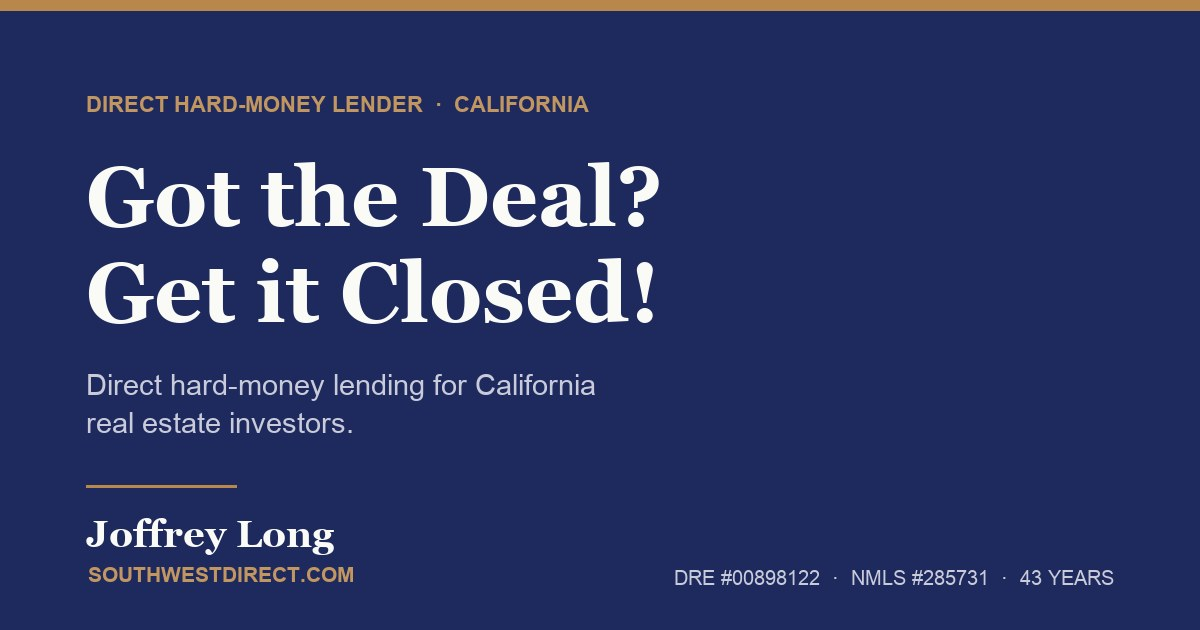
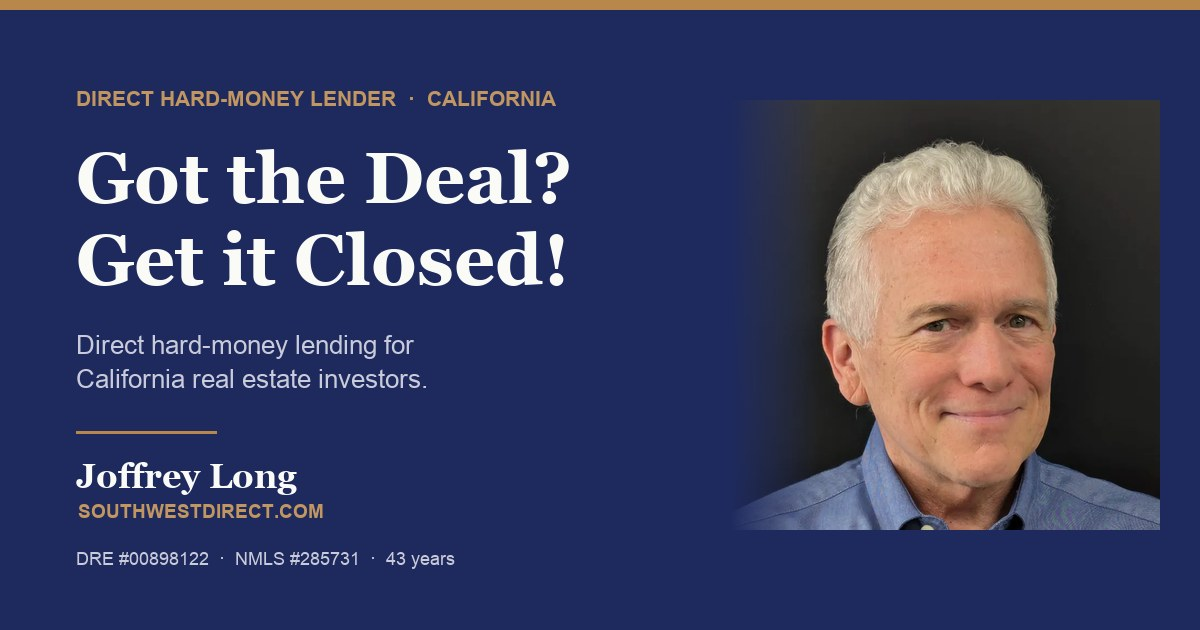
Launch prep: noindex off, sitemap, robots, llms.txt, social image; wrap and z-index fixes
Launch
* Removed noindex from the three content pages, which now carry
  "index, follow, max-image-preview:large". 404.html keeps noindex deliberately.
* sitemap.xml: added lastmod, legal pages to monthly / priority 0.5.
* robots.txt: explicit allows for GPTBot, ChatGPT-User, ClaudeBot, anthropic-ai,
  PerplexityBot, Google-Extended and CCBot.
* llms.txt: new. Business summary, contact, licensing, services, exclusions and
  the three page links.
* og-image.jpg regenerated to include the portrait, via tools/build-social.py.
* Canonicals, Open Graph, Twitter tags, apple-touch-icon, 192/512 icons,
  site.webmanifest and unique meta descriptions were already in place.
* Index canonical still points at the bare root rather than /index.html:
  pointing the home page at /index.html would split it across two URLs and
  canonicalise to the weaker one.

Footer credit wrap
* Bound with non-breaking spaces and nowrap on its own span. Measured at 320,
  360, 390, 414, 421, 768 and 1440: exactly one line box at every width. Below
  421px the copyright and credit stack and the middot between them is hidden so
  it is not left dangling.

Map z-index on iOS
* Steps 1 and 2 of the checklist were already satisfied: the button is a direct
  child of body and no ancestor has transform, filter or will-change. So the
  suspect is compositing, not stacking order.
* Leaflet promotes .leaflet-map-pane with translate3d. On WebKit a composited
[…]

diff --git a/assets/css/site.css b/assets/css/site.css
@@ -347,7 +347,7 @@ a:focus-visible, button:focus-visible, [tabindex]:focus-visible, iframe:focus-vi
   /* v2 design places it at 20px; env() keeps it clear of the iOS home bar. */
   right: calc(20px + env(safe-area-inset-right, 0px));
   bottom: calc(20px + env(safe-area-inset-bottom, 0px));
-  z-index: 1000;   /* clears Leaflet even if the container context is ever lost */
+  z-index: 9999;   /* clears Leaflet even if the container context is ever lost */
   width: 48px; height: 48px;
   display: grid; place-items: center;
   padding: 0;
@@ -361,10 +361,15 @@ a:focus-visible, button:focus-visible, [tabindex]:focus-visible, iframe:focus-vi
   box-shadow: 0 2px 10px rgba(30, 42, 94, 0.3);
   opacity: 0;
   visibility: hidden;            /* also keeps it out of the tab order when hidden */
-  transform: translateY(8px);
+  /* translate3d rather than translateY, and will-change, so the button gets its
+     own compositing layer. Leaflet promotes .leaflet-map-pane with translate3d,
+     and on iOS Safari a composited layer can paint over a non-composited fixed
+     element regardless of z-index. */
+  transform: translate3d(0, 8px, 0);
+  will-change: transform, opacity;
   transition: opacity 0.22s ease, transform 0.22s ease, visibility 0.22s, background-color 0.2s ease;
 }
-.back-to-top.is-visible { opacity: 1; visibility: visible; transform: none; }
+.back-to-top.is-visible { opacity: 1; visibility: visible; transform: translate3d(0, 0, 0); }
 .back-to-top:hover { background: var(--navy-deep); color: var(--cream); }
 /* Dual ring: cream reads against the navy footer, navy against the cream page. */
 .back-to-top:focus-visible {
@@ -634,7 +639,7 @@ html.menu-open, html.menu-open body { overflow: hidden; }
    cannot climb over the sticky header, the drawer or the back-to-top button.
    Fixes those in one place rather than out-bidding Leaflet on each. */
 .leaflet-container {
-  position: relative; z-index: 0;
+  position: relative; z-index: 1;
   border-radius: 6px; font: inherit; background: var(--cream-tint);
 }
 .map-pin { background: none; border: 0; }
@@ -698,5 +703,13 @@ html.menu-open, html.menu-open body { overflow: hidden; }
   padding-top: 18px; border-top: 1px solid rgba(250, 250, 247, 0.18);
 }
 .footer-endnote { margin: 0; font-size: 13px; color: var(--lavender-dim); }
+.footer-endnote-credit { display: inline-block; white-space: nowrap; }
+@media (max-width: 420px) {
+  /* At phone widths the two halves stack, so the middot between them would be
+     left dangling at the end of the first line. */
+  .footer-endnote { font-size: 12px; }
+  .footer-endnote-sep { display: none; }
+  .footer-endnote-credit { display: block; }
+}
 .footer-endnote a { color: var(--lavender); text-decoration: underline; text-underline-offset: 3px; }
 .footer-endnote a:hover { color: var(--cream); }

diff --git a/privacy-terms.html b/privacy-terms.html
@@ -6,8 +6,7 @@
 <title>Privacy Policy & Terms of Service | Joffrey Long / SouthwestDirect.com</title>
 <meta name="description" content="Privacy Policy and Terms of Service for SouthwestDirect.com, operated by Southwest Bancorp. No cookies, no tracking, no contact forms.">
 
-<!-- PREVIEW ONLY — remove this line before the production launch. -->
-<meta name="robots" content="noindex, nofollow">
+<meta name="robots" content="index, follow, max-image-preview:large">
 
 <link rel="canonical" href="https://southwestdirect.com/privacy-terms.html">
 
@@ -404,10 +403,8 @@
 
     <div class="footer-bottom">
       <p class="footer-meta">5151 California Ave STE 100, Irvine, CA 92617-3205 &middot; <a href="tel:+18186351777">818-635-1777</a> &middot; <a href="mailto:info@asksw.com">info@asksw.com</a></p>
-      <p class="footer-endnote">&copy; 2026 Southwest Bancorp &middot; Website crafted by
-        <a href="https://starksocial.com" target="_blank" rel="noopener noreferrer"
-           title="Stark Social Media Agency (Santa Clarita/Los Angeles)">Stark Social</a>
-      </p>
+      <p class="footer-endnote">&copy;&nbsp;2026 Southwest&nbsp;Bancorp <span class="footer-endnote-sep">&middot;</span> <span class="footer-endnote-credit">Website&nbsp;crafted&nbsp;by <a href="https://starksocial.com" target="_blank" rel="noopener noreferrer"
+           title="Stark Social Media Agency (Santa Clarita/Los Angeles)">Stark&nbsp;Social</a></span></p>
     </div>
 
   </div>

diff --git a/index.html b/index.html
@@ -6,8 +6,7 @@
 <title>Joffrey Long | SouthwestDirect.com — Direct Hard Money Lender, California</title>
 <meta name="description" content="Direct hard-money lending for California real estate investors. Talk to Joffrey Long — a decision-maker, not a middleman. Close in 5–12 days.">
 
-<!-- PREVIEW ONLY — remove this line before the production launch. -->
-<meta name="robots" content="noindex, nofollow">
+<meta name="robots" content="index, follow, max-image-preview:large">
 
 <link rel="canonical" href="https://southwestdirect.com/">
 
@@ -559,10 +558,8 @@
 
     <div class="footer-bottom">
       <p class="footer-meta">5151 California Ave STE 100, Irvine, CA 92617-3205 &middot; <a href="tel:+18186351777">818-635-1777</a> &middot; <a href="mailto:info@asksw.com">info@asksw.com</a></p>
-      <p class="footer-endnote">&copy; 2026 Southwest Bancorp &middot; Website crafted by
-        <a href="https://starksocial.com" target="_blank" rel="noopener noreferrer"
-           title="Stark Social Media Agency (Santa Clarita/Los Angeles)">Stark Social</a>
-      </p>
+      <p class="footer-endnote">&copy;&nbsp;2026 Southwest&nbsp;Bancorp <span class="footer-endnote-sep">&middot;</span> <span class="footer-endnote-credit">Website&nbsp;crafted&nbsp;by <a href="https://starksocial.com" target="_blank" rel="noopener noreferrer"
+           title="Stark Social Media Agency (Santa Clarita/Los Angeles)">Stark&nbsp;Social</a></span></p>
     </div>
 
   </div>

diff --git a/accessibility-statement.html b/accessibility-statement.html
@@ -6,8 +6,7 @@
 <title>Accessibility Statement | Joffrey Long / SouthwestDirect.com</title>
 <meta name="description" content="Southwest Bancorp's commitment to WCAG 2.1 Level AA and ADA accessibility on SouthwestDirect.com, and how to report a barrier.">
 
-<!-- PREVIEW ONLY — remove this line before the production launch. -->
-<meta name="robots" content="noindex, nofollow">
+<meta name="robots" content="index, follow, max-image-preview:large">
 
 <link rel="canonical" href="https://southwestdirect.com/accessibility-statement.html">
 
@@ -322,10 +321,8 @@
 
     <div class="footer-bottom">
       <p class="footer-meta">5151 California Ave STE 100, Irvine, CA 92617-3205 &middot; <a href="tel:+18186351777">818-635-1777</a> &middot; <a href="mailto:info@asksw.com">info@asksw.com</a></p>
-      <p class="footer-endnote">&copy; 2026 Southwest Bancorp &middot; Website crafted by
-        <a href="https://starksocial.com" target="_blank" rel="noopener noreferrer"
-           title="Stark Social Media Agency (Santa Clarita/Los Angeles)">Stark Social</a>
-      </p>
+      <p class="footer-endnote">&copy;&nbsp;2026 Southwest&nbsp;Bancorp <span class="footer-endnote-sep">&middot;</span> <span class="footer-endnote-credit">Website&nbsp;crafted&nbsp;by <a href="https://starksocial.com" target="_blank" rel="noopener noreferrer"
+           title="Stark Social Media Agency (Santa Clarita/Los Angeles)">Stark&nbsp;Social</a></span></p>
     </div>
 
   </div>

diff --git a/404.html b/404.html
@@ -6,7 +6,6 @@
 <title>Page not found | Joffrey Long / SouthwestDirect.com</title>
 <meta name="description" content="That page could not be found. Return to SouthwestDirect.com, or call Joffrey Long directly on (818) 635-1777.">
 
-<!-- PREVIEW ONLY — remove this line before the production launch. -->
 <meta name="robots" content="noindex, nofollow">
 
 <link rel="canonical" href="https://southwestdirect.com/404.html">
@@ -229,10 +228,8 @@
 
     <div class="footer-bottom">
       <p class="footer-meta">5151 California Ave STE 100, Irvine, CA 92617-3205 &middot; <a href="tel:+18186351777">818-635-1777</a> &middot; <a href="mailto:info@asksw.com">info@asksw.com</a></p>
-      <p class="footer-endnote">&copy; 2026 Southwest Bancorp &middot; Website crafted by
-        <a href="https://starksocial.com" target="_blank" rel="noopener noreferrer"
-           title="Stark Social Media Agency (Santa Clarita/Los Angeles)">Stark Social</a>
-      </p>
+      <p class="footer-endnote">&copy;&nbsp;2026 Southwest&nbsp;Bancorp <span class="footer-endnote-sep">&middot;</span> <span class="footer-endnote-credit">Website&nbsp;crafted&nbsp;by <a href="https://starksocial.com" target="_blank" rel="noopener noreferrer"
+           title="Stark Social Media Agency (Santa Clarita/Los Angeles)">Stark&nbsp;Social</a></span></p>
     </div>
 
   </div>

diff --git a/tools/build-social.py b/tools/build-social.py
@@ -1,0 +1,51 @@
+#!/usr/bin/env python3
+"""Render the 1200x630 Open Graph card: branding, headline, credentials, portrait."""
+import os, sys
+from PIL import Image, ImageDraw, ImageFont
+
+ROOT = os.path.dirname(os.path.dirname(os.path.abspath(__file__)))
+PORTRAIT = os.path.join(ROOT, "images", "_src", "joffrey-long.png")
+DEST = os.path.join(ROOT, "assets", "og-image.jpg")
+
+NAVY=(30,42,94); NAVY_D=(20,29,64); CREAM=(250,250,247); GOLD=(184,135,75)
+GOLD_L=(193,150,97); LAV=(201,203,218)
+SER="/System/Library/Fonts/Supplemental/Georgia Bold.ttf"
+SANS_B="/System/Library/Fonts/Supplemental/Arial Bold.ttf"
+SANS="/System/Library/Fonts/Supplemental/Arial.ttf"
+W,H=1200,630
+
+def main():
+    img=Image.new("RGB",(W,H),NAVY); d=ImageDraw.Draw(img)
+    d.rectangle([0,0,W,9], fill=GOLD)
+
+    # portrait, right third, faded into the navy at its left edge
+    p=Image.open(PORTRAIT); p.load()
+    if p.mode!="RGB":
+        p=p.convert("RGBA"); bgc=Image.new("RGB",p.size,NAVY); bgc.paste(p,mask=p.split()[-1]); p=bgc
+    side=min(p.width,p.height); p=p.crop(((p.width-side)//2,0,(p.width+side)//2,side))
+    pw=430; p=p.resize((pw,pw), Image.LANCZOS)
+    px,py=W-pw-40,(H-pw)//2
+    mask=Image.new("L",(pw,pw),255); md=ImageDraw.Draw(mask)
+    for i in range(90):                      # soft left edge so it sits on the navy
+        md.rectangle([i,0,i,pw], fill=int(255*i/90))
+    img.paste(p,(px,py),mask)
+
+    f_eye=ImageFont.truetype(SANS_B,21); f_h=ImageFont.truetype(SER,72)
+    f_sub=ImageFont.truetype(SANS,26); f_brand=ImageFont.truetype(SER,34)
+    f_dom=ImageFont.truetype(SANS_B,19); f_cred=ImageFont.truetype(SANS,18)
+    x=76
+    d.text((x,86),"DIRECT HARD-MONEY LENDER  ·  CALIFORNIA",font=f_eye,fill=GOLD_L)
+    d.text((x,136),"Got the Deal?",font=f_h,fill=CREAM)
+    d.text((x,218),"Get it Closed!",font=f_h,fill=CREAM)
+    d.text((x,330),"Direct hard-money lending for",font=f_sub,fill=LAV)
+    d.text((x,364),"California real estate investors.",font=f_sub,fill=LAV)
+    d.line([(x,432),(x+140,432)],fill=GOLD,width=3)
+    d.text((x,456),"Joffrey Long",font=f_brand,fill=CREAM)
+    d.text((x+2,500),"SOUTHWESTDIRECT.COM",font=f_dom,fill=GOLD_L)
+    d.text((x,548),"DRE #00898122  ·  NMLS #285731  ·  43 years",font=f_cred,fill=LAV)
+
+    img.save(DEST,"JPEG",quality=88,optimize=True,progressive=True)
+    print(f"  wrote {DEST}  {img.size}  {os.path.getsize(DEST):,} bytes")
+    return 0
+
+if __name__=="__main__": sys.exit(main())

diff --git a/tools/build-pages.py b/tools/build-pages.py
@@ -118,6 +118,10 @@ def picture(slug, cls, alt, sizes, indent, lazy=True, priority=False):
 def head(title, desc, page_path, og_type="website"):
     # index.html canonicalises to the bare root so the site has one URL, not two.
     canonical_path = "" if page_path == "index.html" else page_path
+    # 404 stays out of the index; the three content pages are now live.
+    robots_meta = ('<meta name="robots" content="noindex, nofollow">'
+                   if page_path == "404.html"
+                   else '<meta name="robots" content="index, follow, max-image-preview:large">')
     # The hero portrait is the LCP element on the landing page; hint it early.
     has_map = page_path != "404.html"
     leaflet_css = '<link rel="stylesheet" href="assets/vendor/leaflet/leaflet.css">\n' if has_map else ''
@@ -132,8 +136,7 @@ def head(title, desc, page_path, og_type="website"):
 <title>{title}</title>
 <meta name="description" content="{desc}">
 
-<!-- PREVIEW ONLY — remove this line before the production launch. -->
-<meta name="robots" content="noindex, nofollow">
+{robots_meta}
 
 <link rel="canonical" href="{PROD_URL}/{canonical_path}">
 
@@ -334,10 +337,8 @@ def footer(current=None):
 
     <div class="footer-bottom">
       <p class="footer-meta">5151 California Ave STE 100, Irvine, CA 92617-3205 &middot; <a href="tel:{PHONE_TEL}">818-635-1777</a> &middot; <a href="mailto:{EMAIL_PAGE}">{EMAIL_PAGE}</a></p>
-      <p class="footer-endnote">&copy; 2026 Southwest Bancorp &middot; Website crafted by
-        <a href="https://starksocial.com" target="_blank" rel="noopener noreferrer"
-           title="Stark Social Media Agency (Santa Clarita/Los Angeles)">Stark Social</a>
-      </p>
+      <p class="footer-endnote">&copy;&nbsp;2026 Southwest&nbsp;Bancorp <span class="footer-endnote-sep">&middot;</span> <span class="footer-endnote-credit">Website&nbsp;crafted&nbsp;by <a href="https://starksocial.com" target="_blank" rel="noopener noreferrer"
+           title="Stark Social Media Agency (Santa Clarita/Los Angeles)">Stark&nbsp;Social</a></span></p>
     </div>
 
   </div>

diff --git a/README.md b/README.md
@@ -788,3 +788,62 @@ keeps everything Leaflet does contained inside the map. The button is also
 raised to 1000 as a backstop. Verified by hit-testing the button's centre point
 while the map genuinely overlaps it: the button wins at both 390px and 1200px.
 
+### 29. Launch prep
+
+**noindex removed** from the three content pages, which now carry
+`index, follow, max-image-preview:large`. **404.html keeps `noindex, nofollow`**
+deliberately — an error page should never be indexed, and GitHub Pages serves it
+with a real 404 status anyway.
+
+**Already in place before this pass,** from note 18: `sitemap.xml`,
+`robots.txt`, canonical URLs on every page, complete Open Graph and Twitter
+tags, apple-touch-icon, 192 and 512 icons, `site.webmanifest`, and unique meta
+descriptions (141 / 126 / 134 characters). What changed:
+
+* `sitemap.xml` — added `lastmod`, moved the legal pages to `changefreq monthly`
+  and `priority 0.5`.
+* `robots.txt` — added explicit allows for GPTBot, ChatGPT-User, ClaudeBot,
+  anthropic-ai, PerplexityBot, Google-Extended and CCBot.
+* `llms.txt` — new. Business summary, contact, licensing, services, exclusions
+  and the three page links.
+* `assets/og-image.jpg` — regenerated to include the portrait alongside the
+  branding, via `tools/build-social.py`.
+
+**Canonicals: index still points at `https://southwestdirect.com/`**, not
+`/index.html`. The brief asked for `/[page].html` throughout, but pointing the
+home page at `/index.html` would split it across two URLs and canonicalise to
+the weaker one. The legal pages do use their `.html` paths.
+
+**AI crawlers.** All seven are allowed, as asked. Worth being explicit about
+what that means: it permits both retrieval for answering questions *and* use of
+the content for model training. For a brochure site that wants to be found and
+quoted that is the right trade, but it is a decision, not a default —
+`Google-Extended` and `CCBot` in particular are training-oriented rather than
+search-oriented, and can be removed without affecting Google Search ranking.
+
+### 30. Footer credit wrap, and the map z-index on iOS
+
+**Credit wrap.** "Website crafted by Stark Social" is bound with non-breaking
+spaces and `white-space: nowrap` on its own span. Measured at 320, 360, 390,
+414, 421, 768 and 1440: the credit occupies exactly one line box at every width.
+Below 421px the copyright and the credit stack onto two lines and the middot
+between them is hidden, so it is not left dangling at the end of a line.
+
+**Map z-index.** The first two steps of the suggested checklist were already
+satisfied: the button is a direct child of `<body>`, and no ancestor carries a
+transform, filter or will-change. So the remaining suspect is compositing rather
+than stacking order.
+
+Leaflet promotes `.leaflet-map-pane` with `translate3d`, which puts it on the
+GPU. On WebKit a composited layer can paint over a *non-composited*
+`position: fixed` element whatever its z-index — which fits the symptom exactly,
+and explains why it reproduced on iPhone but not in Chrome.
+
+The button is now promoted to its own layer: `transform: translate3d(...)` in
+both states rather than `translateY`, plus `will-change: transform, opacity`.
+`z-index` raised to 9999 and the Leaflet container pinned to `z-index: 1`.
+
+**This is unverified on real iOS Safari.** There is no iOS device available
+here, and Chrome uses Blink, where the bug never reproduced. The fix targets the
+documented WebKit behaviour, but it needs a real iPhone to confirm.
+
